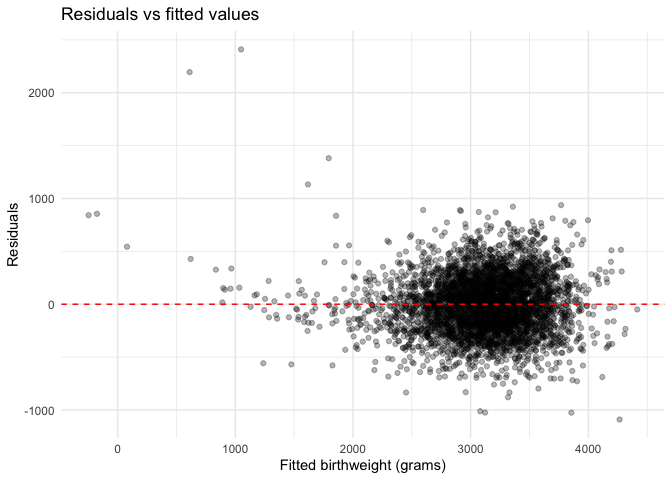
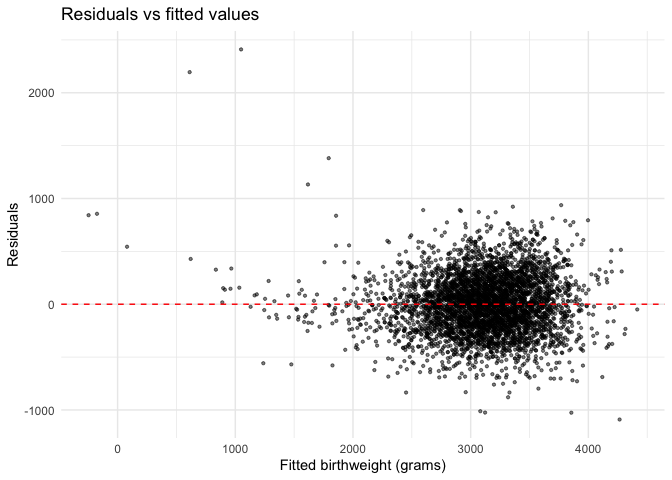
12.2

diff --git a/p8105_hw6_xl3054.md b/p8105_hw6_xl3054.md
@@ -192,15 +192,13 @@ ci_ratio = quantile(boot_res$ratio, probs = c(0.025, 0.975))
 tibble(parameter = c("r^2", "beta1 / beta2"),
        lower = c(ci_r2[1], ci_ratio[1]),
        upper = c(ci_r2[2], ci_ratio[2])) %>% 
-  knitr::kable(digits = 4, caption = "95% Bootstrap Confidence Intervals")
+  knitr::kable(digits = 4)
 ```
 
 | parameter     |     lower |     upper |
 |:--------------|----------:|----------:|
 | r^2           |    0.9343 |    0.9466 |
 | beta1 / beta2 | -279.2530 | -125.2792 |
-
-95% Bootstrap Confidence Intervals
 
 # Problem 3
 
@@ -291,7 +289,7 @@ birthweight %>%
   add_predictions(bw_model) %>%
   add_residuals(bw_model) %>% 
   ggplot(aes(x = pred, y = resid)) +
-  geom_point(alpha = 0.3) +
+  geom_point(alpha = 0.5, size = 0.8) +
   geom_hline(yintercept = 0, linetype = "dashed", color = "red") +
   labs(x = "Fitted birthweight (grams)", y = "Residuals",
        title = "Residuals vs fitted values") +
